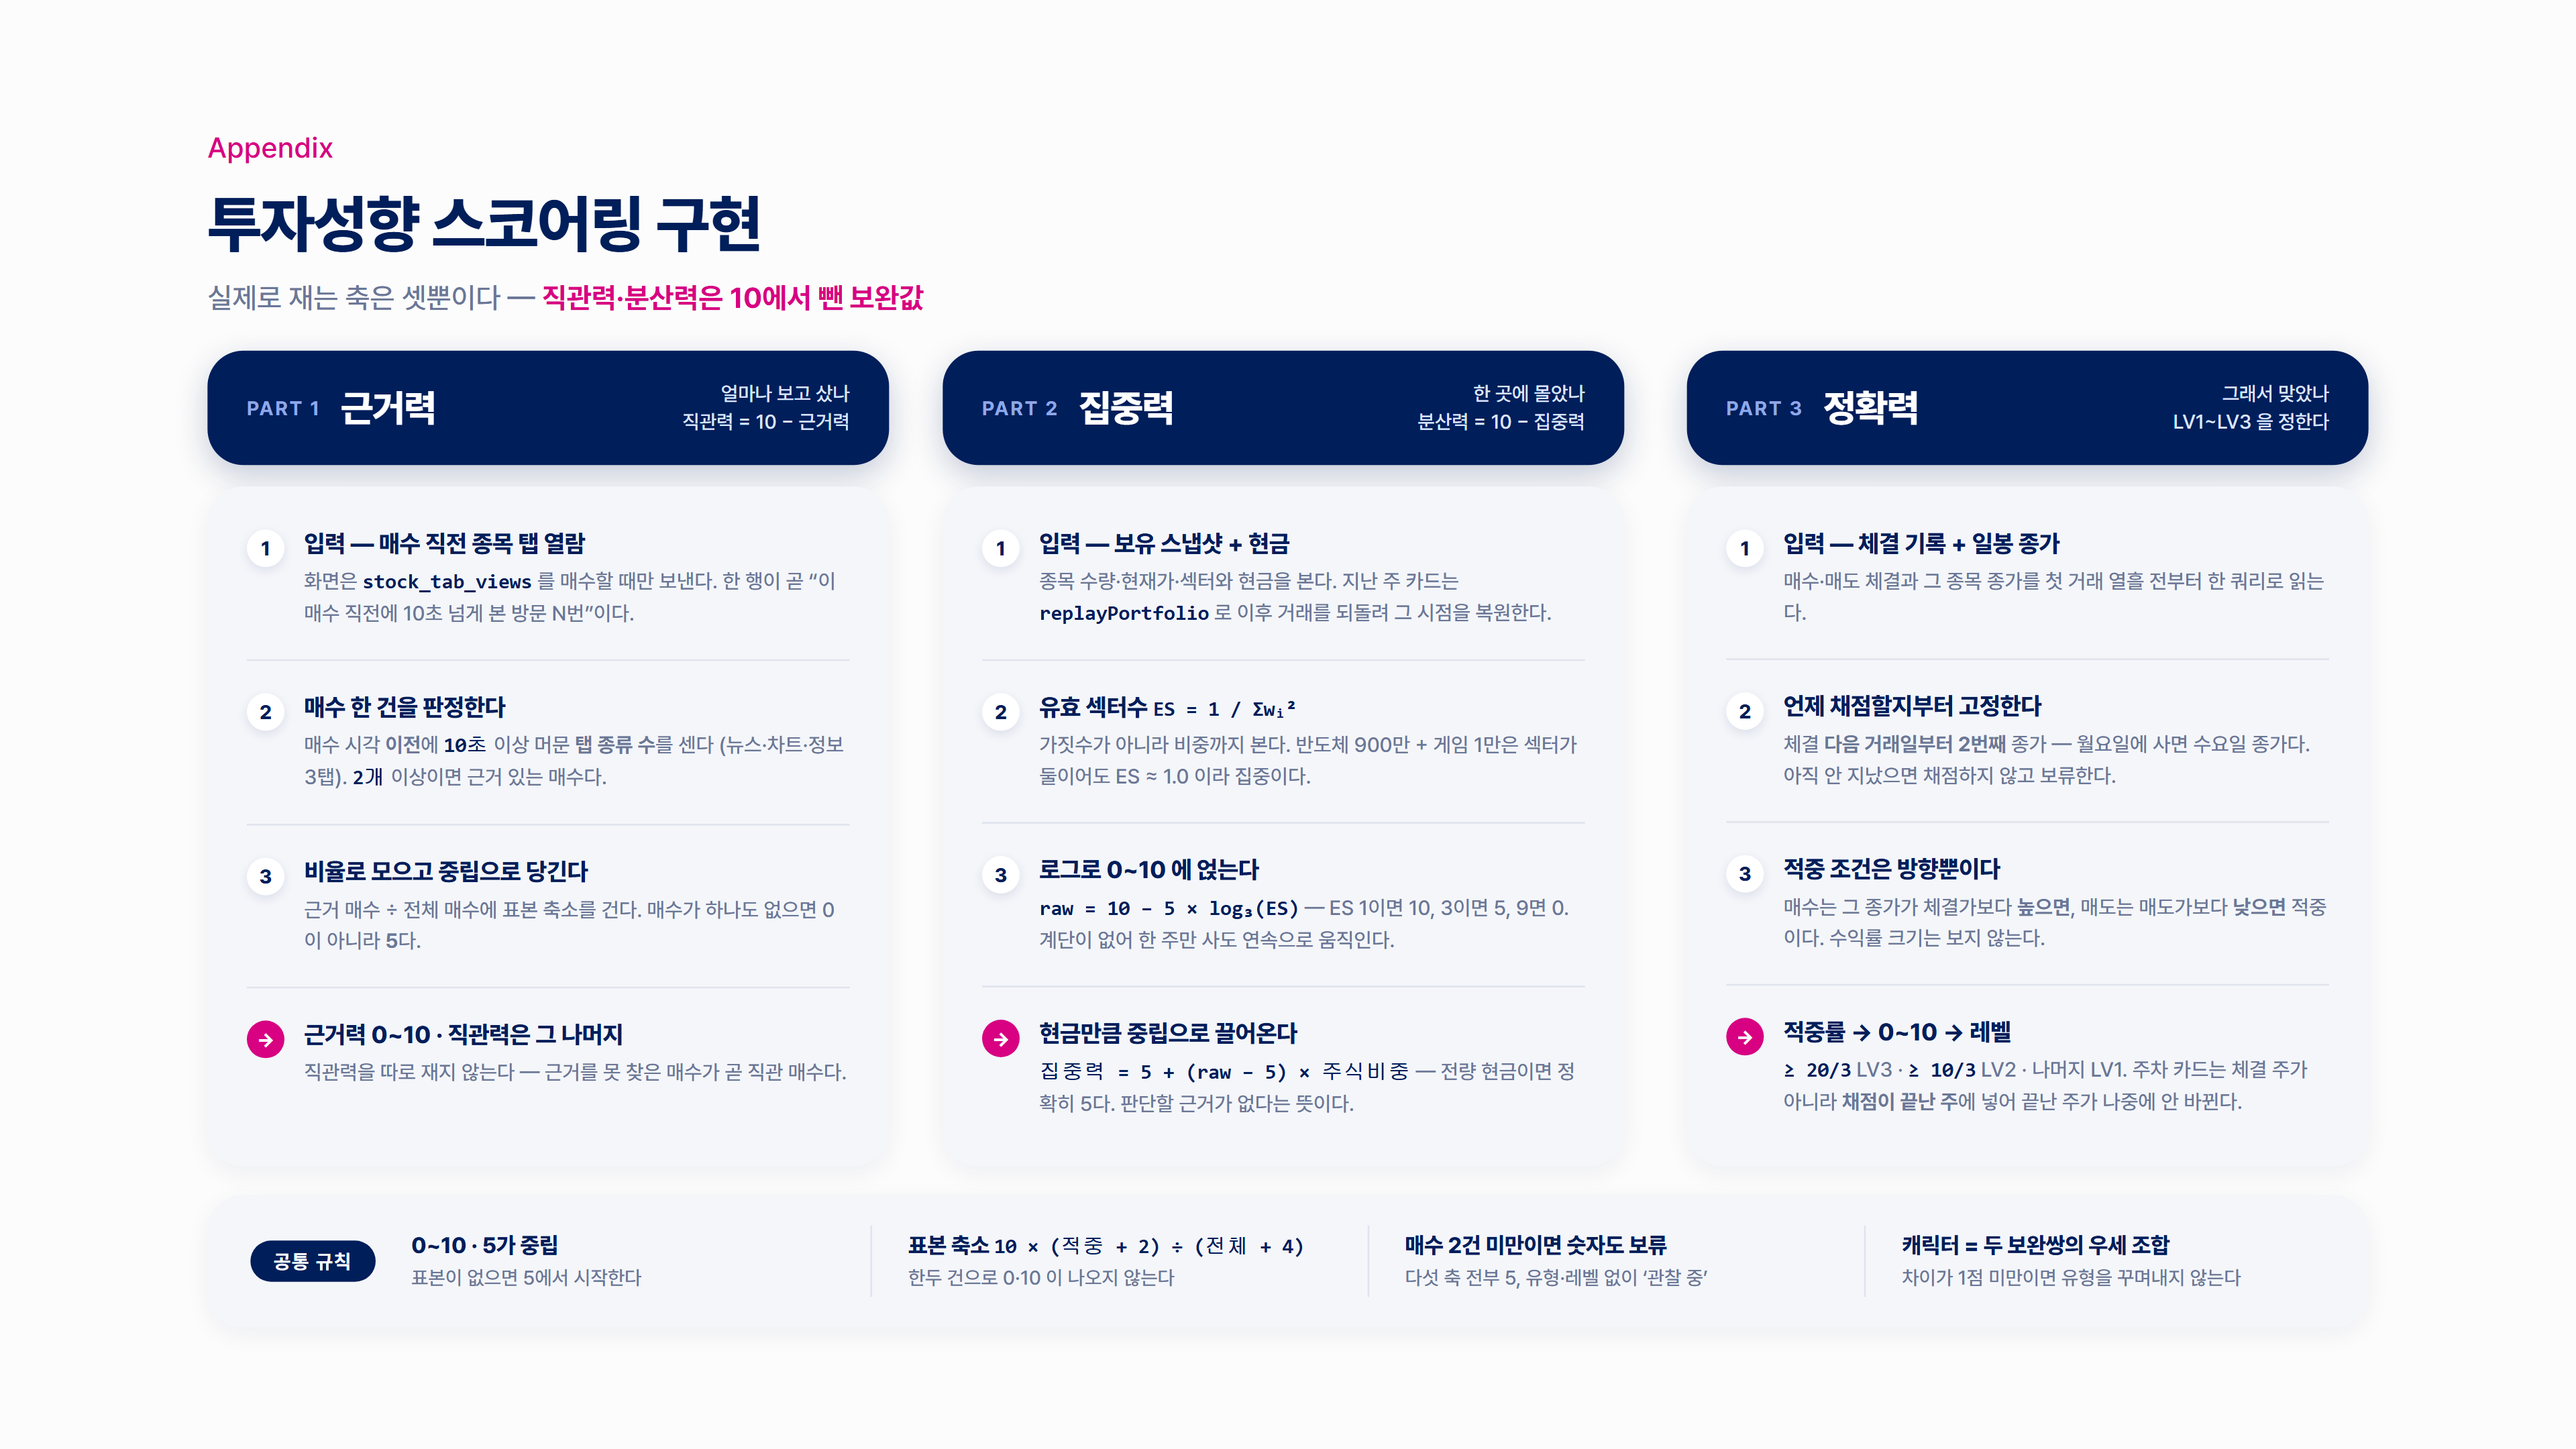
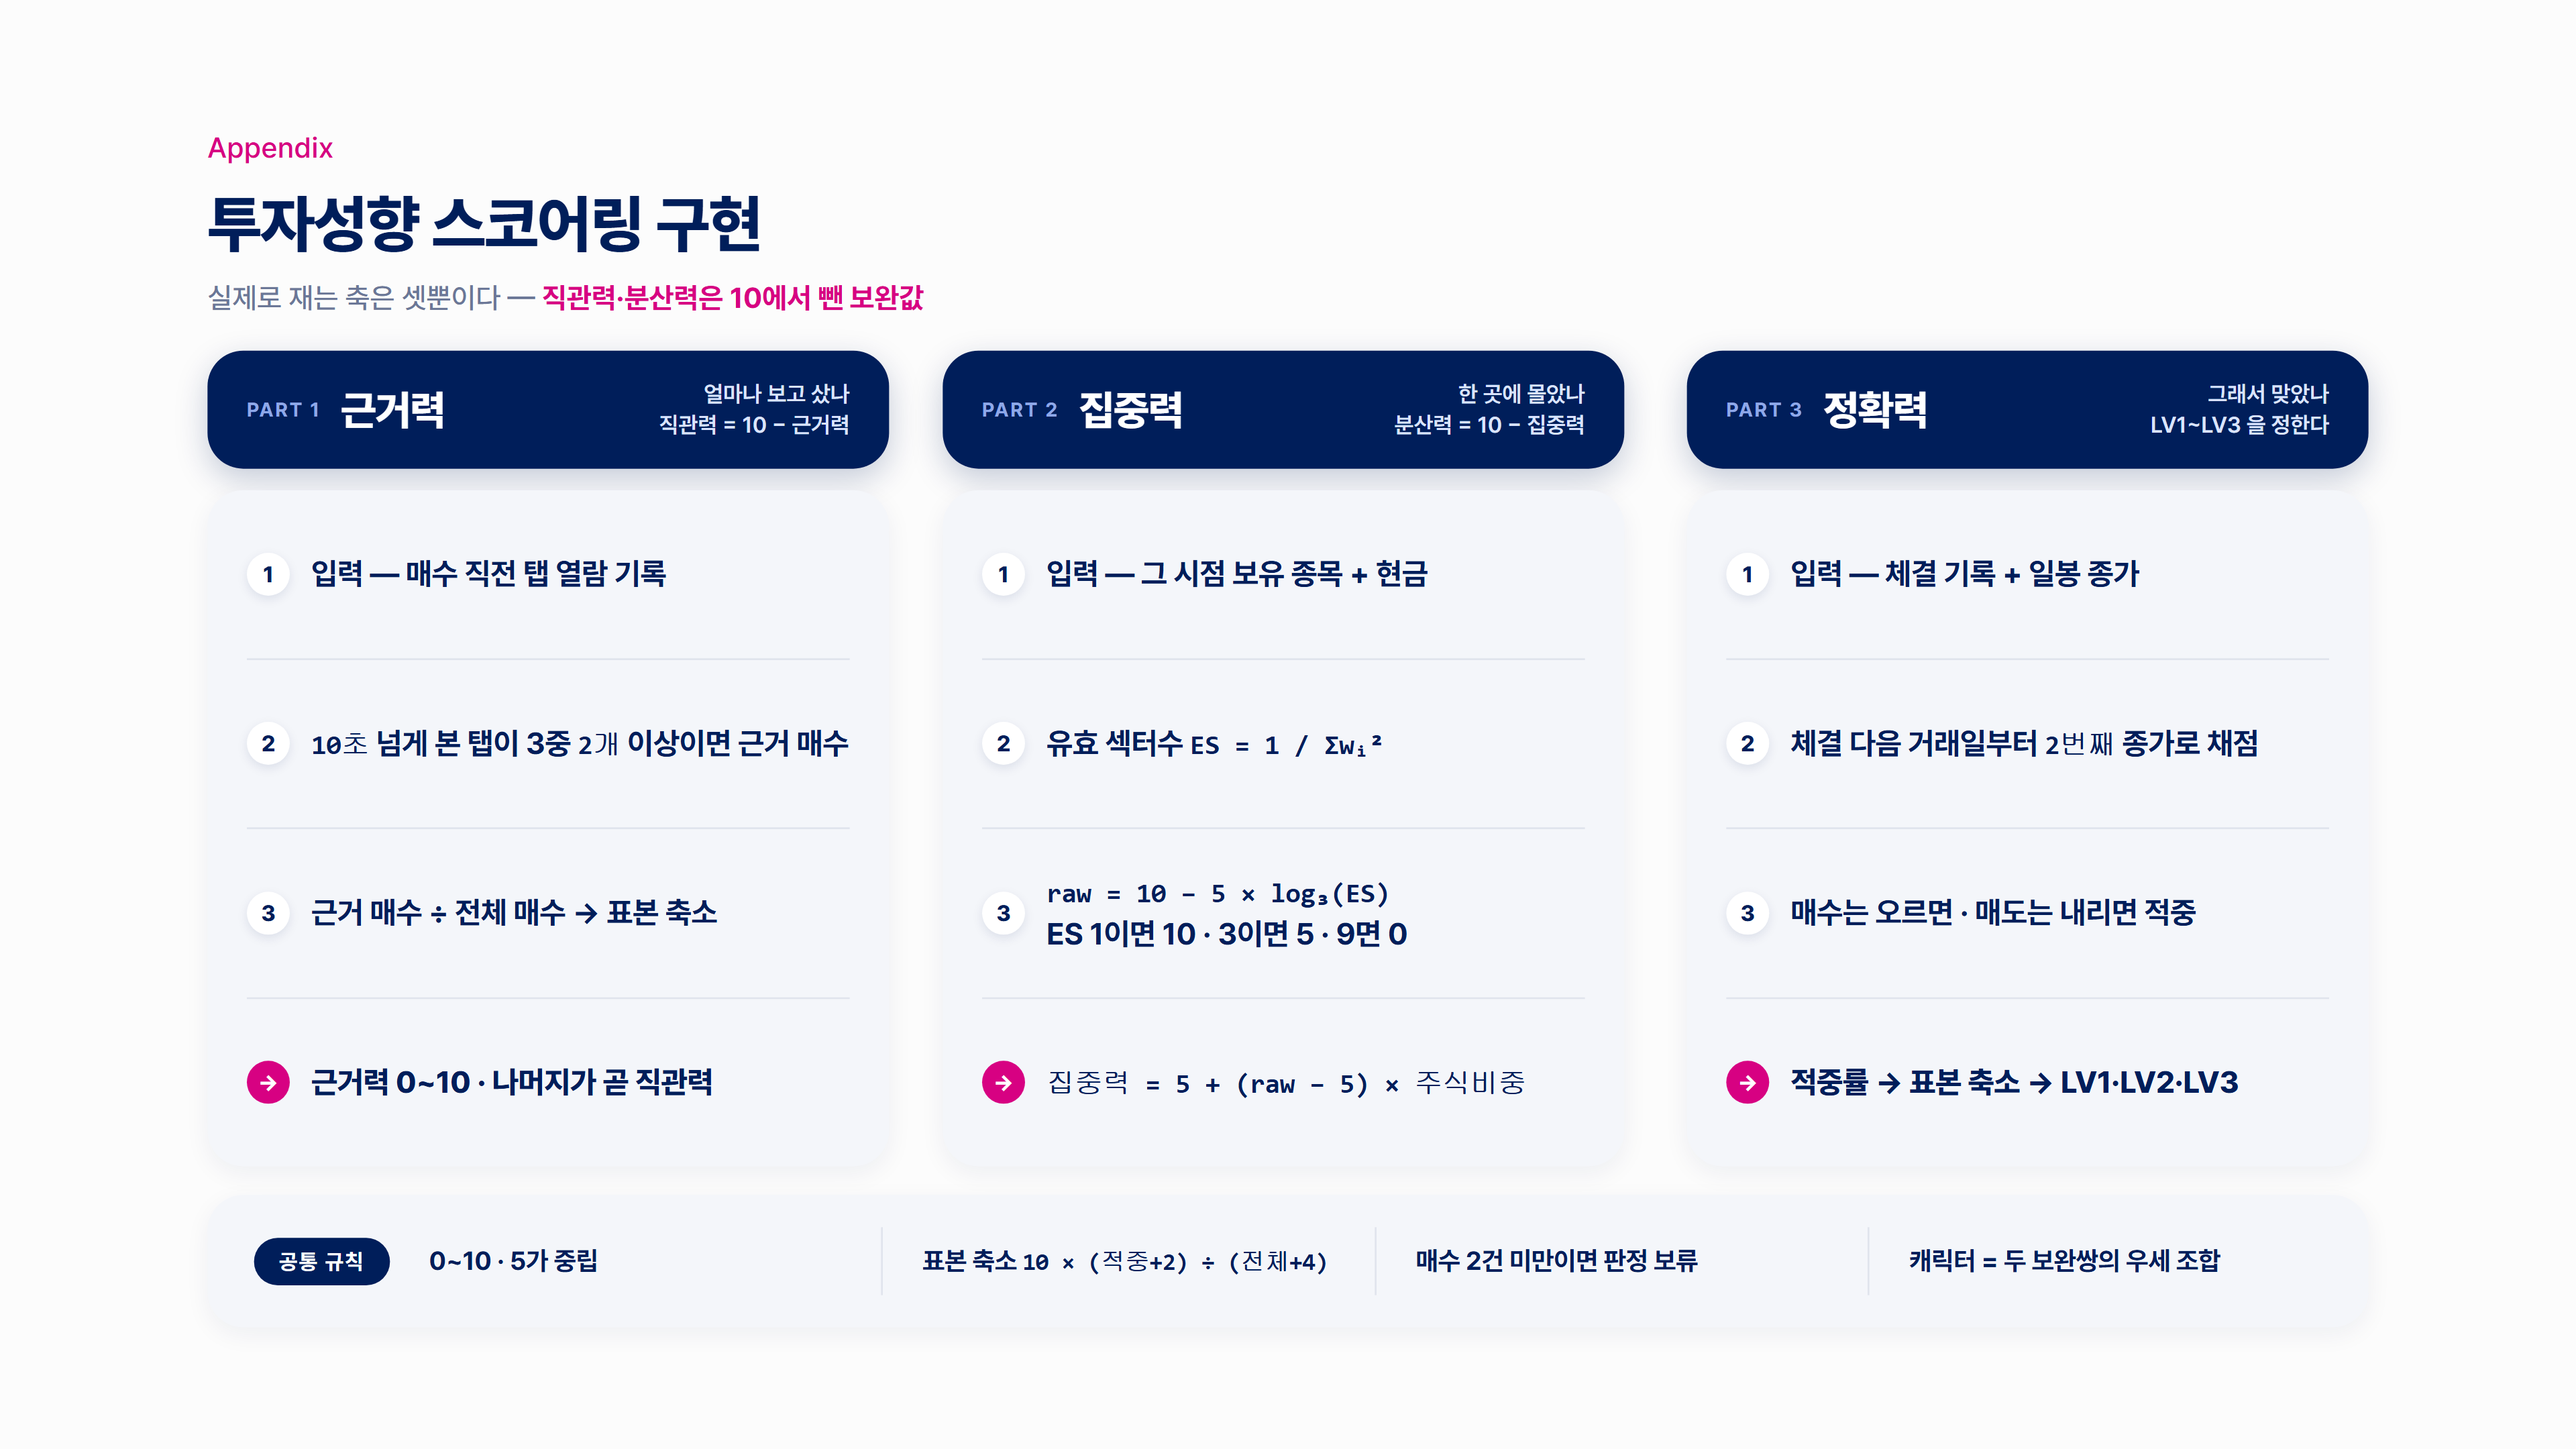
슬라이드에서 회색 보조 설명을 걷어내고 글자를 키운다
발표 화면에서 읽히지 않는 11px 회색 문장을 전부 지우고, 거기 있던
산식·문턱값을 단계 문장 안으로 옮겼다. 단계 글씨 13.5 → 17px, 축 이름
21 → 23px, 공통 규칙 12.5 → 14.5px 다. 네 단계가 카드 높이를 똑같이
나눠 갖게 해 아래가 비지 않는다.

diff --git a/docs/성향_스코어링_슬라이드.html b/docs/성향_스코어링_슬라이드.html
@@ -10,7 +10,10 @@
      카드 #F4F6FA / 강조 블록 #001E5A
 
      좌표는 템플릿 실측값 그대로 1440x810 로 잡고, 무대만 1920x1080 로 키운다
-     (4/3 배). 덱 슬라이드 규격에 맞추면서 앞선 부록 두 장과 눈금이 어긋나지 않는다. */
+     (4/3 배). 덱 슬라이드 규격에 맞추면서 앞선 부록 두 장과 눈금이 어긋나지 않는다.
+
+     발표용이라 한 단계에 한 줄만 둔다 — 보조 설명 회색 글씨는 두지 않고
+     산식·문턱값을 단계 문장 안에 넣어 글자 크기를 키웠다. */
   :root{
     --bg:#fcfcfc; --navy:#001e5a; --magenta:#d70182;
     --card:#f4f6fa; --muted:#6b7797; --line:rgba(0,30,90,.08);
@@ -34,38 +37,39 @@
   .tagline b{color:var(--magenta);font-weight:700}
 
   /* ── 3등분 기둥: 머리(네이비 강조 블록) + 몸통(카드) ── */
-  .head{position:absolute;top:196px;width:381px;height:64px;background:var(--navy);border-radius:20px;
+  .head{position:absolute;top:196px;width:381px;height:66px;background:var(--navy);border-radius:20px;
         display:flex;align-items:center;gap:11px;padding:0 22px;box-shadow:0 6px 18px rgba(0,30,90,.22)}
   .pnum{font-size:11px;font-weight:700;letter-spacing:.09em;color:#8fa8e8}
-  .hname{font-size:21px;font-weight:800;color:#fff;letter-spacing:-.02em}
-  .hsub{margin-left:auto;text-align:right;font-size:11px;font-weight:500;color:#dbe4ff;line-height:1.4}
+  .hname{font-size:23px;font-weight:800;color:#fff;letter-spacing:-.02em}
+  .hsub{margin-left:auto;text-align:right;font-size:12.5px;font-weight:600;color:#dbe4ff;line-height:1.4}
 
-  .body{position:absolute;top:272px;width:381px;height:380px;background:var(--card);border-radius:20px;
-        padding:6px 22px;box-shadow:0 4px 14px rgba(0,30,90,.06)}
+  .body{position:absolute;top:274px;width:381px;height:378px;background:var(--card);border-radius:20px;
+        padding:0 22px;box-shadow:0 4px 14px rgba(0,30,90,.06);
+        display:flex;flex-direction:column}
 
-  /* 단계 한 줄 — 번호 배지 + 제목 + 설명 */
-  .step{display:flex;gap:11px;align-items:flex-start;padding:17px 0}
+  /* 단계 한 줄 — 번호 배지 + 문장 하나. 보조 설명은 두지 않는다. */
+  /* 네 단계가 카드 높이를 똑같이 나눠 갖는다 — 아래가 비지 않는다 */
+  .step{flex:1;display:flex;gap:12px;align-items:center;padding:0}
   .step + .step{border-top:1px solid var(--line)}
-  .n{flex:none;width:21px;height:21px;margin-top:1px;border-radius:999px;background:#fff;color:var(--navy);
-     font-size:11px;font-weight:800;display:flex;align-items:center;justify-content:center;
+  .n{flex:none;width:24px;height:24px;border-radius:999px;background:#fff;color:var(--navy);
+     font-size:12.5px;font-weight:800;display:flex;align-items:center;justify-content:center;
      box-shadow:0 2px 6px rgba(0,30,90,.10)}
   .step.out .n{background:var(--magenta);color:#fff;box-shadow:none}
-  .st{font-size:13.5px;font-weight:800;letter-spacing:-.01em;line-height:1.3}
-  .sd{margin-top:4px;font-size:11.5px;font-weight:500;color:var(--muted);line-height:1.5}
+  .st{font-size:17px;font-weight:700;letter-spacing:-.01em;line-height:1.38}
+  .step.out .st{font-weight:800}
 
   /* 산식은 숫자축이라 고정폭으로 둔다 */
-  .fx{font-family:"Consolas","D2Coding",monospace;font-size:11.5px;font-weight:700;color:var(--navy)}
+  .fx{font-family:"Consolas","D2Coding",monospace;font-size:15.5px;font-weight:700;color:var(--navy)}
 
   /* ── 세 축에 공통으로 걸리는 규칙 ── */
   .rules{position:absolute;left:116px;top:668px;width:1208px;height:74px;background:var(--card);
-         border-radius:20px;display:flex;align-items:center;gap:20px;padding:0 24px;
+         border-radius:20px;display:flex;align-items:center;gap:22px;padding:0 26px;
          box-shadow:0 4px 14px rgba(0,30,90,.06)}
-  .rpill{flex:none;background:var(--navy);color:#fff;font-size:11px;font-weight:700;
-         letter-spacing:.06em;border-radius:999px;padding:5px 13px}
-  .rule{flex:1}
-  .rule b{display:block;font-size:12.5px;font-weight:800;letter-spacing:-.01em}
-  .rule .cap{display:block;margin-top:3px;font-size:11px;font-weight:500;color:var(--muted);line-height:1.4}
-  .sep{flex:none;width:1px;height:40px;background:var(--line)}
+  .rpill{flex:none;background:var(--navy);color:#fff;font-size:12px;font-weight:700;
+         letter-spacing:.06em;border-radius:999px;padding:6px 14px}
+  .rule{flex:1;font-size:14.5px;font-weight:700;letter-spacing:-.01em;line-height:1.35}
+  .rule .fx{font-size:13.5px}
+  .sep{flex:none;width:1px;height:38px;background:var(--line)}
 </style>
 </head>
 <body>
@@ -83,34 +87,19 @@
   <div class="body" style="left:116px">
     <div class="step">
       <span class="n">1</span>
-      <div>
-        <div class="st">입력 — 매수 직전 종목 탭 열람</div>
-        <div class="sd">화면은 <span class="fx">stock_tab_views</span> 를 매수할 때만 보낸다.
-        한 행이 곧 “이 매수 직전에 10초 넘게 본 방문 N번”이다.</div>
-      </div>
+      <div class="st">입력 — 매수 직전 탭 열람 기록</div>
     </div>
     <div class="step">
       <span class="n">2</span>
-      <div>
-        <div class="st">매수 한 건을 판정한다</div>
-        <div class="sd">매수 시각 <b>이전</b>에 <span class="fx">10초</span> 이상 머문 <b>탭 종류 수</b>를 센다
-        (뉴스·차트·정보 3탭). <span class="fx">2개</span> 이상이면 근거 있는 매수다.</div>
-      </div>
+      <div class="st"><span class="fx">10초</span> 넘게 본 탭이 3중 <span class="fx">2개</span> 이상이면 근거 매수</div>
     </div>
     <div class="step">
       <span class="n">3</span>
-      <div>
-        <div class="st">비율로 모으고 중립으로 당긴다</div>
-        <div class="sd">근거 매수 ÷ 전체 매수에 표본 축소를 건다.
-        매수가 하나도 없으면 0이 아니라 <b>5</b>다.</div>
-      </div>
+      <div class="st">근거 매수 ÷ 전체 매수 → 표본 축소</div>
     </div>
     <div class="step out">
       <span class="n">→</span>
-      <div>
-        <div class="st">근거력 0~10 · 직관력은 그 나머지</div>
-        <div class="sd">직관력을 따로 재지 않는다 — 근거를 못 찾은 매수가 곧 직관 매수다.</div>
-      </div>
+      <div class="st">근거력 0~10 · 나머지가 곧 직관력</div>
     </div>
   </div>
 
@@ -122,35 +111,19 @@
   <div class="body" style="left:527px">
     <div class="step">
       <span class="n">1</span>
-      <div>
-        <div class="st">입력 — 보유 스냅샷 + 현금</div>
-        <div class="sd">종목 수량·현재가·섹터와 현금을 본다. 지난 주 카드는
-        <span class="fx">replayPortfolio</span> 로 이후 거래를 되돌려 그 시점을 복원한다.</div>
-      </div>
+      <div class="st">입력 — 그 시점 보유 종목 + 현금</div>
     </div>
     <div class="step">
       <span class="n">2</span>
-      <div>
-        <div class="st">유효 섹터수 <span class="fx">ES = 1 / Σwᵢ²</span></div>
-        <div class="sd">가짓수가 아니라 비중까지 본다. 반도체 900만 + 게임 1만은
-        섹터가 둘이어도 ES ≈ 1.0 이라 집중이다.</div>
-      </div>
+      <div class="st">유효 섹터수 <span class="fx">ES = 1 / Σwᵢ²</span></div>
     </div>
     <div class="step">
       <span class="n">3</span>
-      <div>
-        <div class="st">로그로 0~10 에 얹는다</div>
-        <div class="sd"><span class="fx">raw = 10 − 5 × log₃(ES)</span> — ES 1이면 10, 3이면 5,
-        9면 0. 계단이 없어 한 주만 사도 연속으로 움직인다.</div>
-      </div>
+      <div class="st"><span class="fx">raw = 10 − 5 × log₃(ES)</span><br>ES 1이면 10 · 3이면 5 · 9면 0</div>
     </div>
     <div class="step out">
       <span class="n">→</span>
-      <div>
-        <div class="st">현금만큼 중립으로 끌어온다</div>
-        <div class="sd"><span class="fx">집중력 = 5 + (raw − 5) × 주식비중</span> — 전량 현금이면
-        정확히 5다. 판단할 근거가 없다는 뜻이다.</div>
-      </div>
+      <div class="st"><span class="fx">집중력 = 5 + (raw − 5) × 주식비중</span></div>
     </div>
   </div>
 
@@ -162,59 +135,32 @@
   <div class="body" style="left:943px">
     <div class="step">
       <span class="n">1</span>
-      <div>
-        <div class="st">입력 — 체결 기록 + 일봉 종가</div>
-        <div class="sd">매수·매도 체결과 그 종목 종가를 첫 거래 열흘 전부터 한 쿼리로 읽는다.</div>
-      </div>
+      <div class="st">입력 — 체결 기록 + 일봉 종가</div>
     </div>
     <div class="step">
       <span class="n">2</span>
-      <div>
-        <div class="st">언제 채점할지부터 고정한다</div>
-        <div class="sd">체결 <b>다음 거래일부터 2번째</b> 종가 — 월요일에 사면 수요일 종가다.
-        아직 안 지났으면 채점하지 않고 보류한다.</div>
-      </div>
+      <div class="st">체결 다음 거래일부터 <span class="fx">2번째</span> 종가로 채점</div>
     </div>
     <div class="step">
       <span class="n">3</span>
-      <div>
-        <div class="st">적중 조건은 방향뿐이다</div>
-        <div class="sd">매수는 그 종가가 체결가보다 <b>높으면</b>, 매도는 매도가보다
-        <b>낮으면</b> 적중이다. 수익률 크기는 보지 않는다.</div>
-      </div>
+      <div class="st">매수는 오르면 · 매도는 내리면 적중</div>
     </div>
     <div class="step out">
       <span class="n">→</span>
-      <div>
-        <div class="st">적중률 → 0~10 → 레벨</div>
-        <div class="sd"><span class="fx">≥ 20/3</span> LV3 · <span class="fx">≥ 10/3</span> LV2 · 나머지 LV1.
-        주차 카드는 체결 주가 아니라 <b>채점이 끝난 주</b>에 넣어 끝난 주가 나중에 안 바뀐다.</div>
-      </div>
+      <div class="st">적중률 → 표본 축소 → LV1·LV2·LV3</div>
     </div>
   </div>
 
   <!-- ══ 세 축 공통 규칙 ══ -->
   <div class="rules">
     <span class="rpill">공통 규칙</span>
-    <div class="rule">
-      <b>0~10 · 5가 중립</b>
-      <span class="cap">표본이 없으면 5에서 시작한다</span>
-    </div>
+    <div class="rule">0~10 · 5가 중립</div>
     <div class="sep"></div>
-    <div class="rule">
-      <b>표본 축소 <span class="fx">10 × (적중 + 2) ÷ (전체 + 4)</span></b>
-      <span class="cap">한두 건으로 0·10 이 나오지 않는다</span>
-    </div>
+    <div class="rule">표본 축소 <span class="fx">10 × (적중+2) ÷ (전체+4)</span></div>
     <div class="sep"></div>
-    <div class="rule">
-      <b>매수 2건 미만이면 숫자도 보류</b>
-      <span class="cap">다섯 축 전부 5, 유형·레벨 없이 ‘관찰 중’</span>
-    </div>
+    <div class="rule">매수 2건 미만이면 판정 보류</div>
     <div class="sep"></div>
-    <div class="rule">
-      <b>캐릭터 = 두 보완쌍의 우세 조합</b>
-      <span class="cap">차이가 1점 미만이면 유형을 꾸며내지 않는다</span>
-    </div>
+    <div class="rule">캐릭터 = 두 보완쌍의 우세 조합</div>
   </div>
 </div>
 </div>
